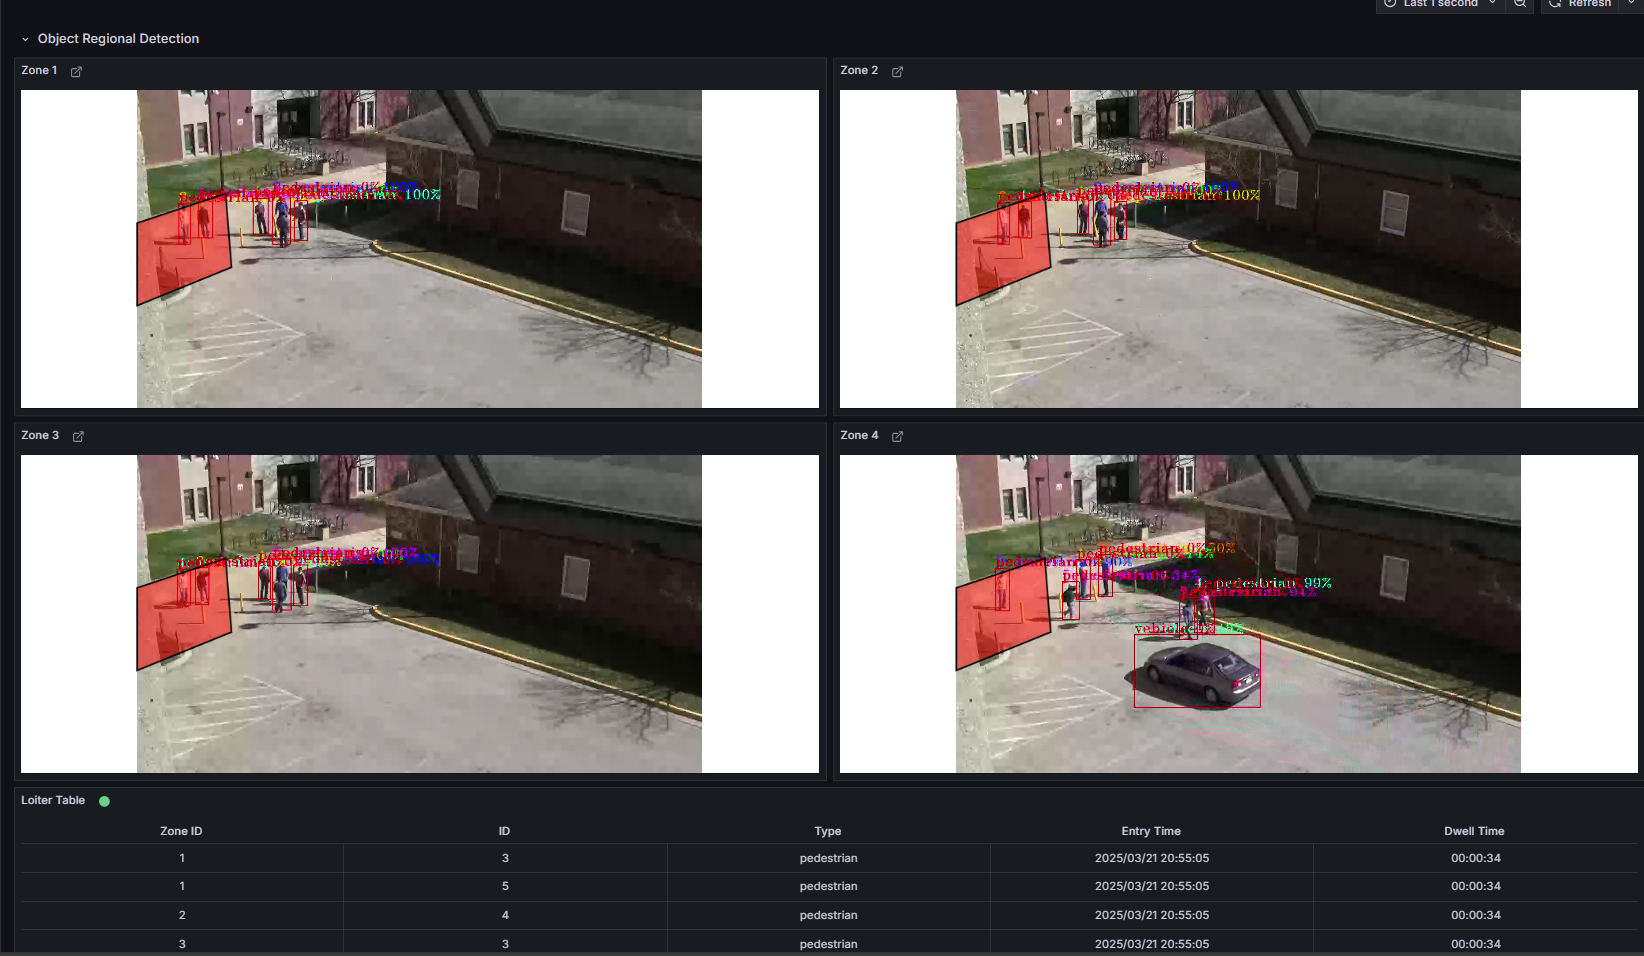
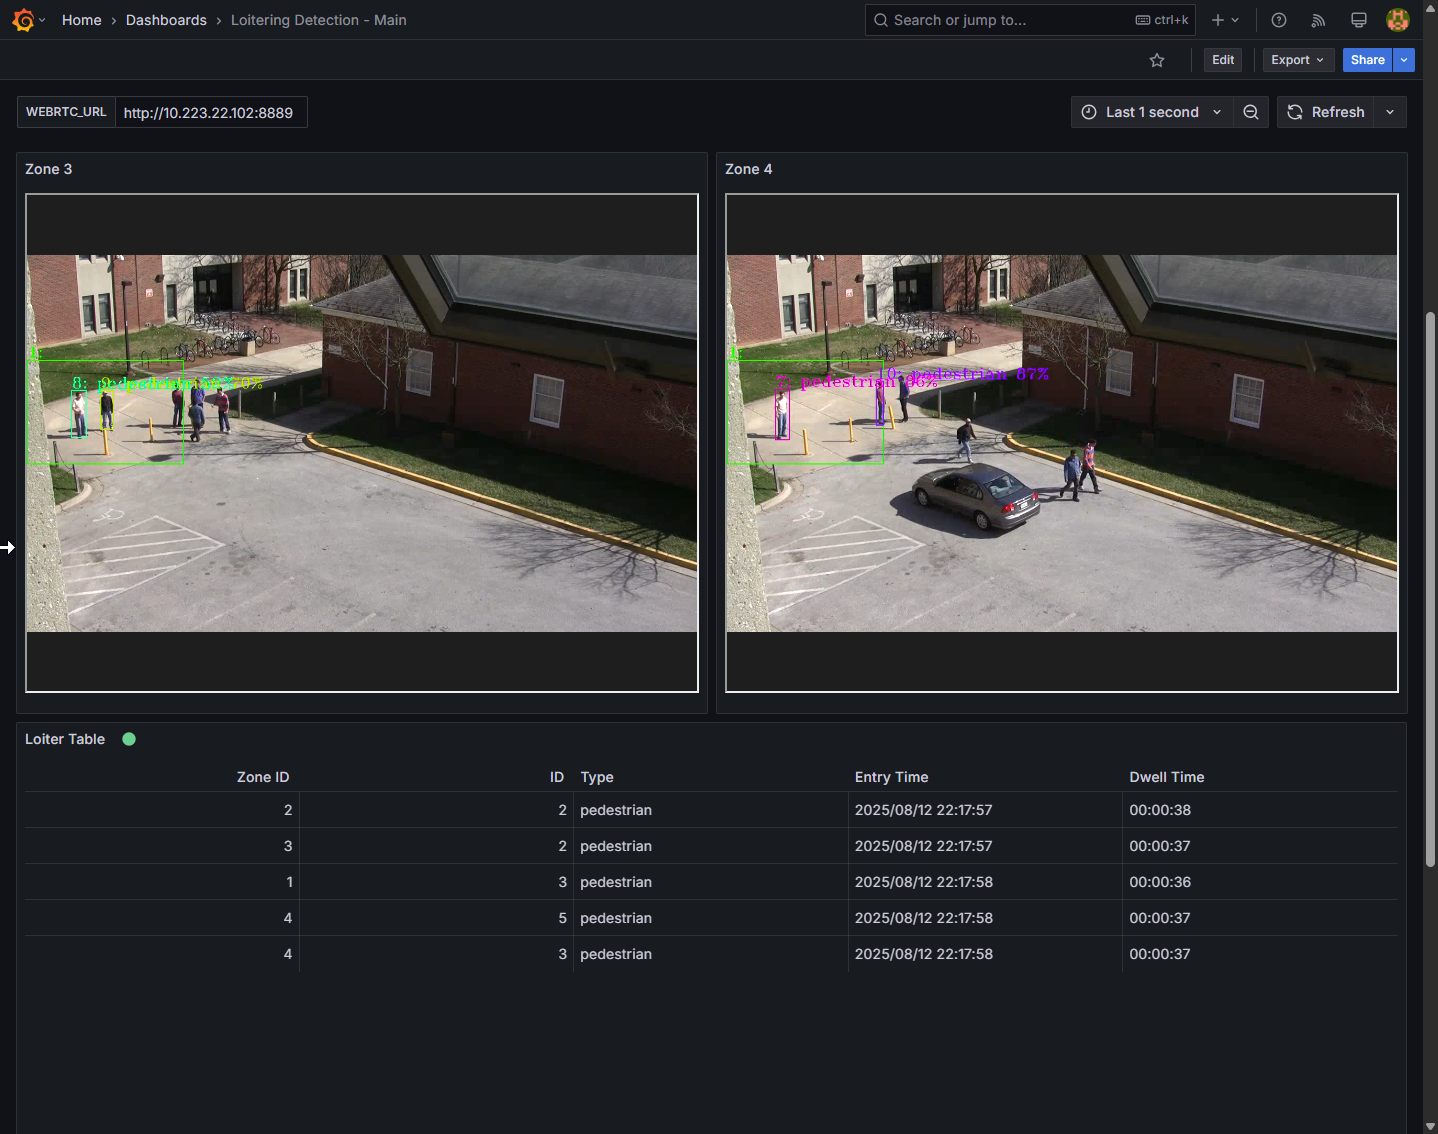
Updated docs and issue with blinking contour (#483)

diff --git a/metro-vision-ai-app-recipe/loitering-detection/docs/user-guide/get-started.md b/metro-vision-ai-app-recipe/loitering-detection/docs/user-guide/get-started.md
@@ -63,6 +63,21 @@ Enable running docker without "sudo": [Post Install](https://docs.docker.com/eng
 
     </details>
 
+    <details>
+    <summary>
+    Specify Custom Host IP Address (Advanced Configuration)
+    </summary>
+
+    For environments requiring a specific host IP address (such as when using Edge Manageability Toolkit or deploying across different network interfaces), you can explicitly specify the IP address:
+
+    ```bash
+    ./install.sh loitering-detection <HOST_IP>
+    ```
+    Replace `<HOST_IP>` with your target IP address.
+
+    </details>
+
+
 ## Run the application
 
 1. **Start the Application**:

diff --git a/metro-vision-ai-app-recipe/smart-parking/docs/user-guide/get-started.md b/metro-vision-ai-app-recipe/smart-parking/docs/user-guide/get-started.md
@@ -58,6 +58,20 @@ By following this guide, you will learn how to:
 
     </details>
 
+    <details>
+    <summary>
+    Specify Custom Host IP Address (Advanced Configuration)
+    </summary>
+
+    For environments requiring a specific host IP address (such as when using Edge Manageability Toolkit or deploying across different network interfaces), you can explicitly specify the IP address:
+
+    ```bash
+    ./install.sh smart-parking <HOST_IP>
+    ```
+    Replace `<HOST_IP>` with your target IP address.
+
+    </details>
+
 ## Run the Application
 
 1. **Start the Application**:
